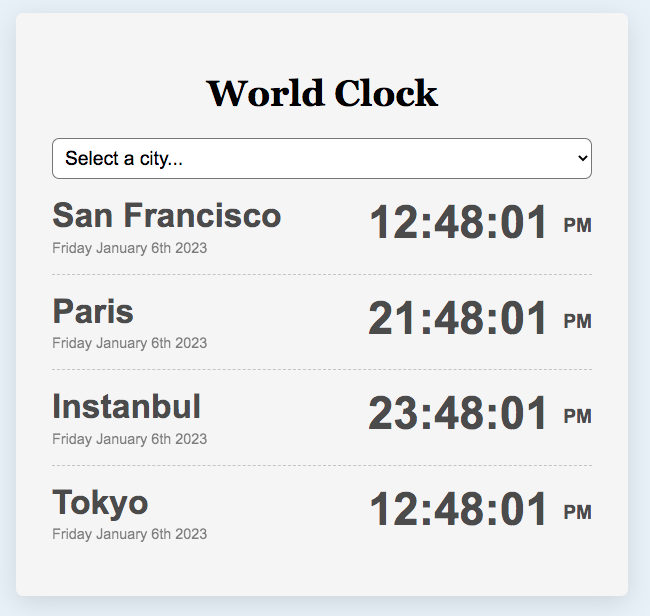
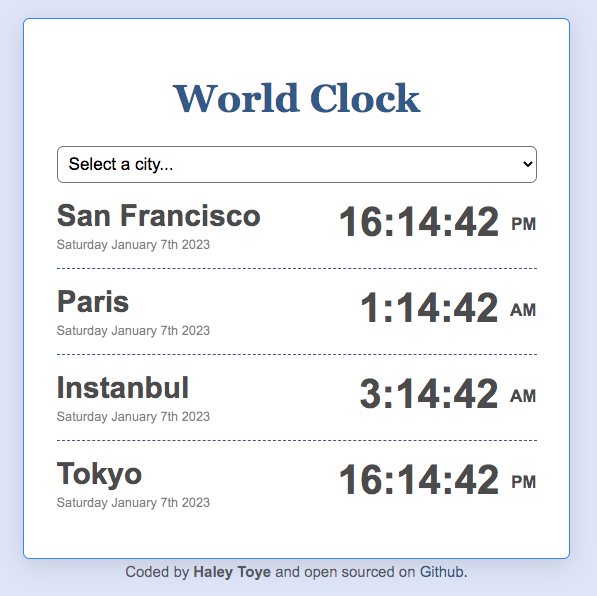
Updated images, copy for apps and link css

Changed region(s): [[0.0, 0.0, 0.9648, 0.9664], [0.5729, 0.3322, 0.9045, 0.3926]]

diff --git a/index.html b/index.html
@@ -53,10 +53,12 @@
           <div class="project-desc">
             <h2 class="mb-4">Recipies</h2>
             <p class="mb-5 text-muted">
-              Far far away, behind the word mountains, far from the countries
-              Vokalia and Consonantia, there live the blind texts. Separated
-              they live in Bookmarksgrove right at the coast of the Semantics, a
-              large language ocean. A small river named Duden flows by
+              I have a great love and appreciation for creating, sharing and
+              learning recipes. Being able to consolidate favourites and make
+              them more accessible has been a joyful experience. Using simple
+              methods of basic HTML and CSS, these culinary experiences can be
+              viewed and brought to the table by others. Food is meant to be
+              shared!
             </p>
             <a href="#" class="btn btn-branding-outline">Learn More</a>
           </div>
@@ -67,12 +69,14 @@
           <div class="project-desc">
             <h2 class="mb-4">Weather App</h2>
             <p class="mb-5 text-muted">
-              Far far away, behind the word mountains, far from the countries
-              Vokalia and Consonantia, there live the blind texts. Separated
-              they live in Bookmarksgrove right at the coast of the Semantics, a
-              large language ocean. A small river named Duden flows by
+              Learning to write code incorporating Aootstrap and API
+              communication has been a tremendous exercise in learning on the
+              fly and trying new things! This app uses OpenWeather API and has
+              many capabilities beyond this basic form shown here. Having
+              specialised icons for the current en forecast weather conditions
+              makes this project truly unique.
             </p>
-            <a href="#" class="btn btn-branding-outline">Learn More</a>
+            <a href="#" class="btn btn-branding-outline">Launch Project</a>
           </div>
         </div>
         <div class="col d-none d-lg-block">
@@ -95,12 +99,12 @@
           <div class="project-desc">
             <h2 class="mb-4">World Clock</h2>
             <p class="mb-5 text-muted">
-              Far far away, behind the word mountains, far from the countries
-              Vokalia and Consonantia, there live the blind texts. Separated
-              they live in Bookmarksgrove right at the coast of the Semantics, a
-              large language ocean. A small river named Duden flows by
+              The clocks on the homepage use moment libraries to show local
+              times for each city. As well, by searching one can find the local
+              time of any major city across the globe. Further learning of
+              Bootstrap and function writing led to this fun app!
             </p>
-            <a href="#" class="btn btn-branding-outline">Learn More</a>
+            <a href="#" class="btn btn-branding-outline">View Here</a>
           </div>
         </div>
       </div>

diff --git a/src/style.css b/src/style.css
@@ -33,7 +33,7 @@ h6 {
 .hero {
   background-color: var(--back-color);
   text-align: center;
-  padding: 200px 20px;
+  padding: 160px 20px;
 }
 .hero p {
   font-size: 36px;
@@ -52,7 +52,7 @@ h6 {
 }
 
 .p-div {
-  font-size: 24px;
+  font-size: 28px;
 }
 .btn-branding {
   color: whitesmoke;
@@ -63,9 +63,15 @@ h6 {
   line-height: 27px;
   padding: 15px 30px;
 }
+.btn-branding:hover {
+  color: var(--branding-color);
+  background-color: whitesmoke;
+  border: 2px solid var(--branding-color);
+  border-radius: 4px;
+}
 .btn-branding-outline {
   color: var(--branding-color);
-  background: whitesmoke;
+  background: white;
   border: 2px solid var(--branding-color);
   border-radius: 4px;
   font-family: var(--sec-font);
@@ -76,6 +82,10 @@ h6 {
 }
 .project-desc {
   padding: 120px 60px 0px;
+}
+.btn-branding-outline:hover {
+  color: whitesmoke;
+  background: var(--branding-color);
 }
 @media (max-width: 900px) {
   .hero {
